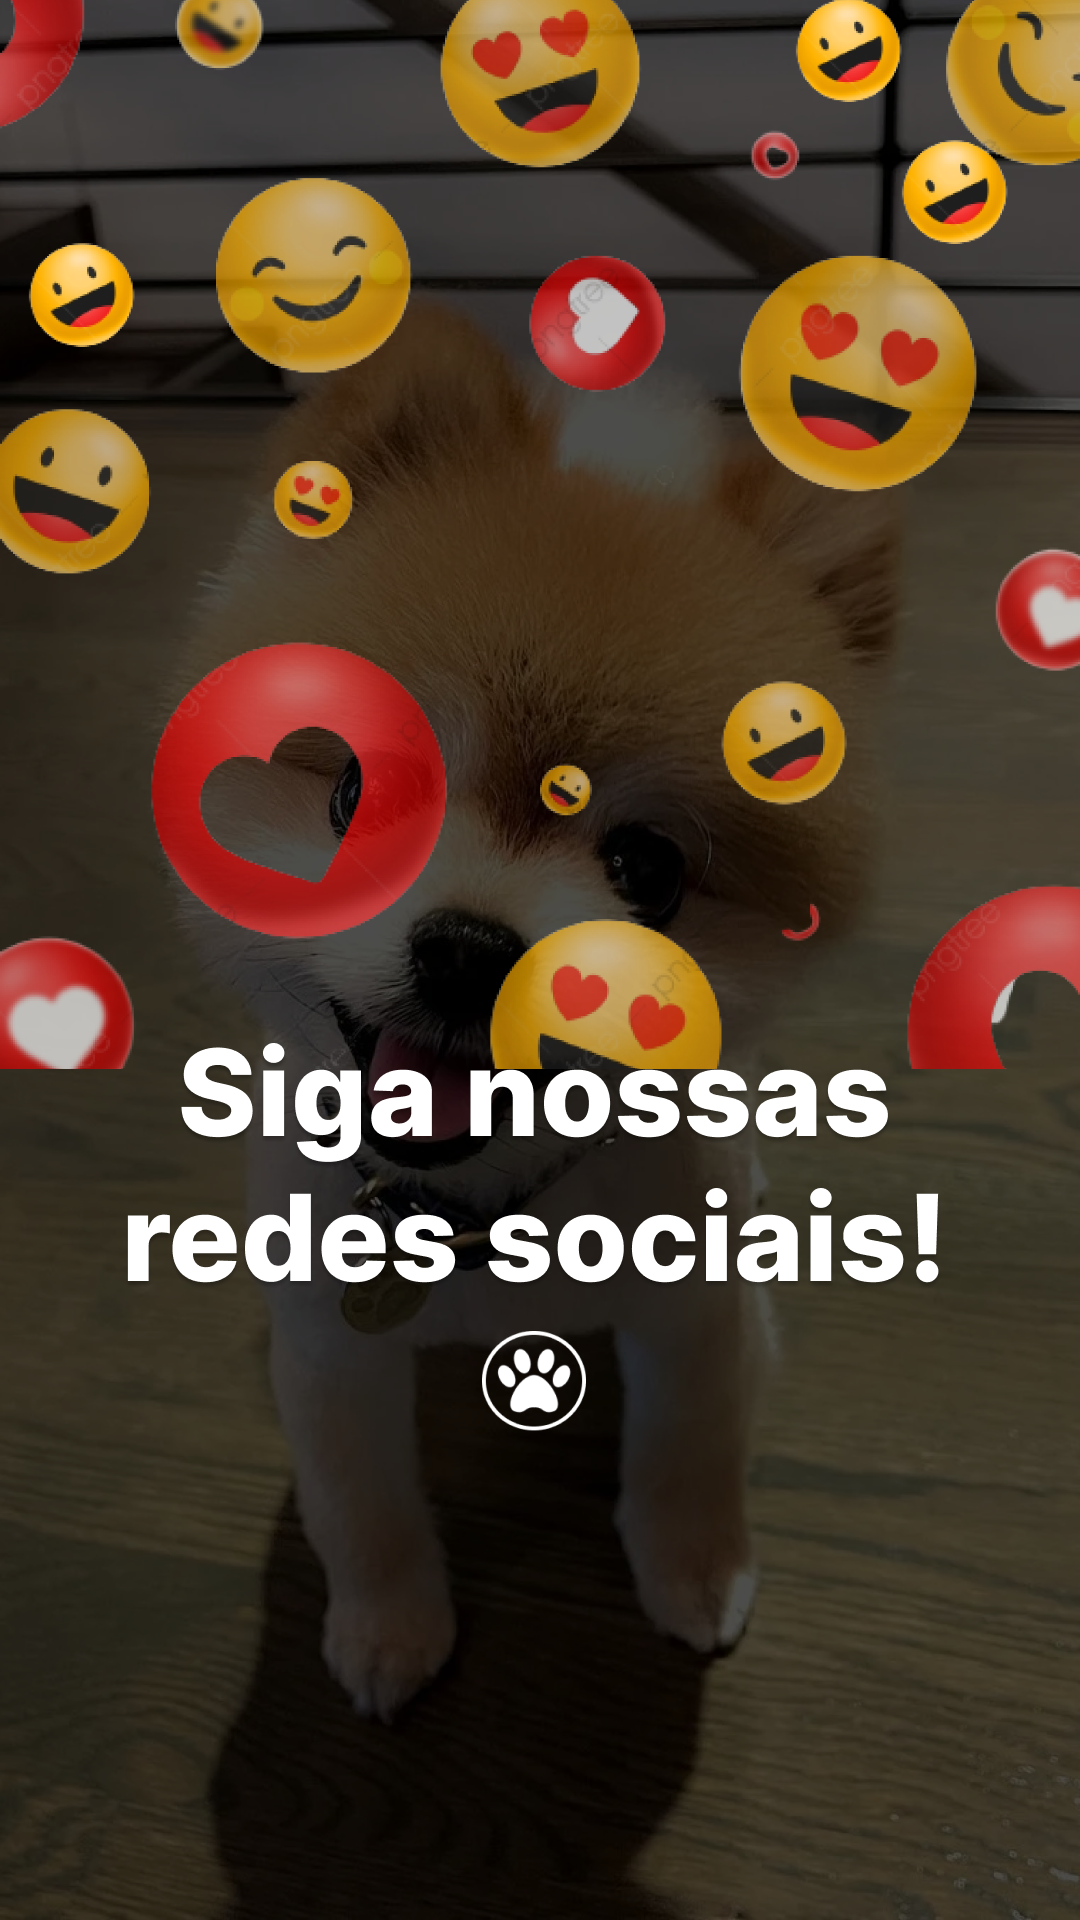
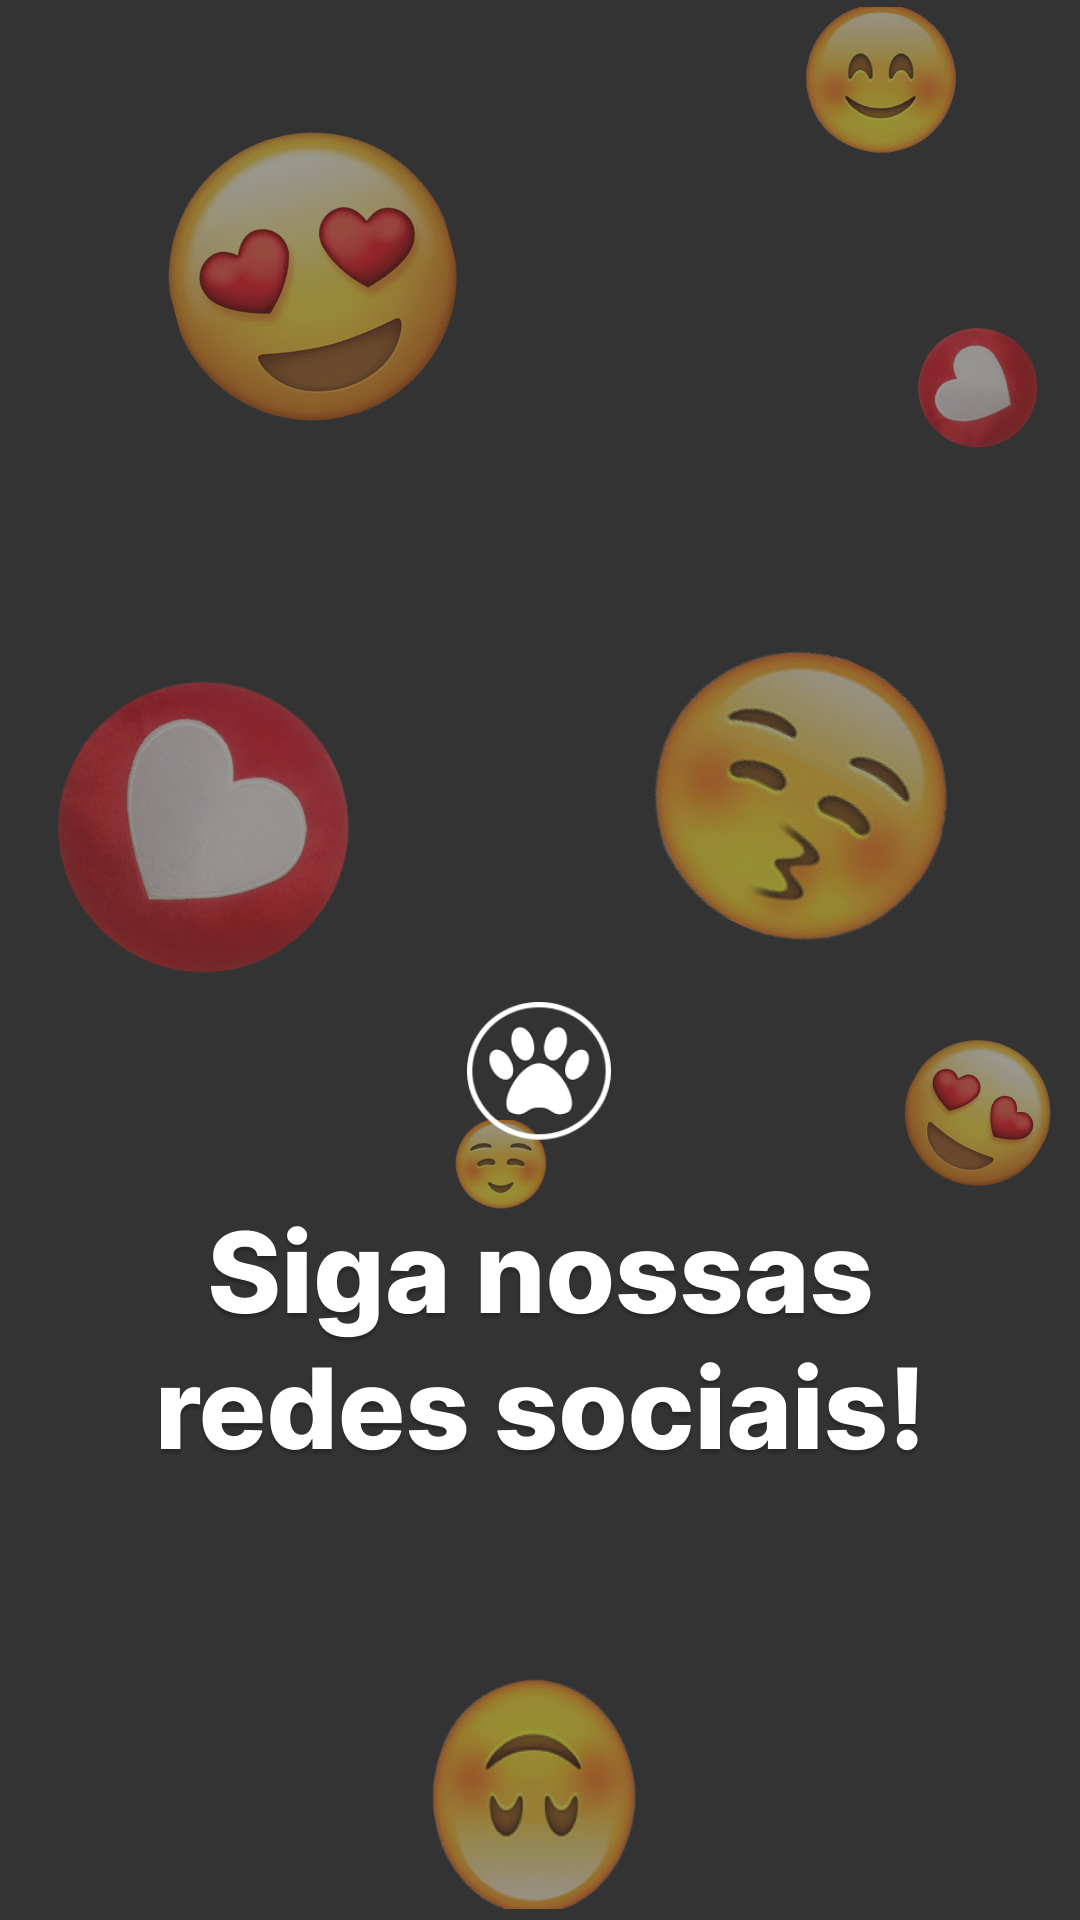
finishing social network screen

diff --git a/lib/core/widgets/play_store_rating.dart b/lib/core/widgets/play_store_rating.dart
@@ -11,78 +11,37 @@ class RatingUs extends StatelessWidget {
   @override
   Widget build(BuildContext context) {
     return Card(
-      margin: EdgeInsets.symmetric(vertical: 8.0.h, horizontal: 16.0.w),
+      margin: EdgeInsets.symmetric(vertical: 24.0.h, horizontal: 8.0.w),
       shape: RoundedRectangleBorder(
         borderRadius: BorderRadius.circular(8.0.h),
       ),
       child: Container(
         alignment: Alignment.center,
         height: Dimensions.getDimensBasedOnDeviceHeight(
-          greaterDeviceHeightDouble: 144.0.h,
+          greaterDeviceHeightDouble: 112.0.h,
           minDeviceHeightDouble: 152.0.h,
         ),
-        child: Column(
+        child: Row(
+          mainAxisAlignment: MainAxisAlignment.spaceEvenly,
           children: [
-            Row(
-              children: [
-                SizedBox(width: 16.0.w),
-                AutoSizeTexts.autoSizeText16(
-                  'Avalie-nos na',
-                  textAlign: TextAlign.center,
-                ),
-                SizedBox(width: 24.0.w),
-                AutoSizeTexts.autoSizeText16(
-                  'Siga nos no',
-                  textAlign: TextAlign.center,
-                ),
-                SizedBox(width: 40.0.w),
-                AutoSizeTexts.autoSizeText16(
-                  'Accesse',
-                  textAlign: TextAlign.center,
-                ),
-              ],
+            buttons(
+              context: context,
+              imagePath: Platform.isAndroid ? ImageAssets.playstoreLogo : ImageAssets.applestoreLogo,
+              urlToOpen: Platform.isAndroid ? 'https://cutt.ly/4gIMH8V' : 'https://cutt.ly/4gIMH8V',
+              text: 'Avalie na\n${Platform.isAndroid ? 'PlayStore' : 'Apple Store'}',
             ),
-            Row(
-              mainAxisAlignment: MainAxisAlignment.spaceEvenly,
-              children: [
-                buttons(
-                  context: context,
-                  imagePath: Platform.isAndroid ? ImageAssets.playstoreLogo : ImageAssets.applestoreLogo,
-                  urlToOpen: Platform.isAndroid ? 'https://cutt.ly/4gIMH8V' : 'https://cutt.ly/4gIMH8V',
-                  text: 'Avalie-nos na ${Platform.isAndroid ? 'PlayStore' : 'Apple Store'}.',
-                ),
-                buttons(
-                  urlToOpen: 'https://www.instagram.com/tiutiuapp/',
-                  imagePath: ImageAssets.instaLogo,
-                  text: '@tiutiuapp.',
-                  context: context,
-                  bigger: true,
-                ),
-                buttons(
-                  urlToOpen: 'https://www.facebook.com/profile.php?id=100087589894761',
-                  text: 'Tiu, Tiu App',
-                  imagePath: ImageAssets.face,
-                  context: context,
-                ),
-              ],
+            buttons(
+              urlToOpen: 'https://www.instagram.com/tiutiuapp/',
+              imagePath: ImageAssets.instaLogo,
+              text: '@tiutiuapp',
+              context: context,
+              bigger: true,
             ),
-            Row(
-              mainAxisAlignment: MainAxisAlignment.spaceEvenly,
-              children: [
-                AutoSizeTexts.autoSizeText16(
-                  '${Platform.isAndroid ? 'PlayStore' : 'Apple Store'}.',
-                  textAlign: TextAlign.center,
-                ),
-                SizedBox(width: 1.0.w),
-                AutoSizeTexts.autoSizeText16(
-                  '@tiutiuapp.',
-                  textAlign: TextAlign.center,
-                ),
-                AutoSizeTexts.autoSizeText16(
-                  'Tiu, Tiu App',
-                  textAlign: TextAlign.center,
-                ),
-              ],
+            buttons(
+              urlToOpen: 'https://www.facebook.com/profile.php?id=100087589894761',
+              text: 'Tiu, Tiu App',
+              imagePath: ImageAssets.face,
+              context: context,
             ),
           ],
         ),
@@ -109,11 +68,17 @@ class RatingUs extends StatelessWidget {
               color: AppColors.white,
               shape: BoxShape.circle,
             ),
-            height: bigger ? 96 : 72.0.h,
+            height: bigger ? 96 : 64.0.h,
             child: Padding(
               padding: const EdgeInsets.all(16.0),
               child: Image.asset(imagePath!),
             ),
+          ),
+          AutoSizeTexts.autoSizeText8(
+            fontWeight: FontWeight.w300,
+            textAlign: TextAlign.center,
+            fontSize: bigger ? 16 : 14,
+            text,
           ),
         ],
       ),

diff --git a/lib/features/support/views/social.dart b/lib/features/support/views/social.dart
@@ -1,3 +1,4 @@
+import 'package:tiutiu/features/auth/widgets/image_carousel_background.dart';
 import 'package:tiutiu/core/widgets/play_store_rating.dart';
 import 'package:tiutiu/core/constants/images_assets.dart';
 import 'package:tiutiu/core/utils/asset_handle.dart';
@@ -10,21 +11,26 @@ class FollowUs extends StatelessWidget {
   @override
   Widget build(BuildContext context) {
     return Scaffold(
-      body: Container(
-        width: double.infinity,
-        height: Get.height,
-        decoration: BoxDecoration(
-          image: DecorationImage(
-            image: AssetHandle.imageProvider(ImageAssets.follow),
-            fit: BoxFit.cover,
+      body: Stack(
+        children: [
+          ImageCarouselBackground(),
+          Container(
+            width: double.infinity,
+            height: Get.height,
+            decoration: BoxDecoration(
+              image: DecorationImage(
+                image: AssetHandle.imageProvider(ImageAssets.follow),
+                fit: BoxFit.cover,
+              ),
+            ),
           ),
-        ),
-        child: Column(
-          children: [
-            Spacer(),
-            RatingUs(),
-          ],
-        ),
+          Positioned(
+            child: RatingUs(),
+            bottom: 0.0,
+            right: 0.0,
+            left: 0.0,
+          )
+        ],
       ),
     );
   }
